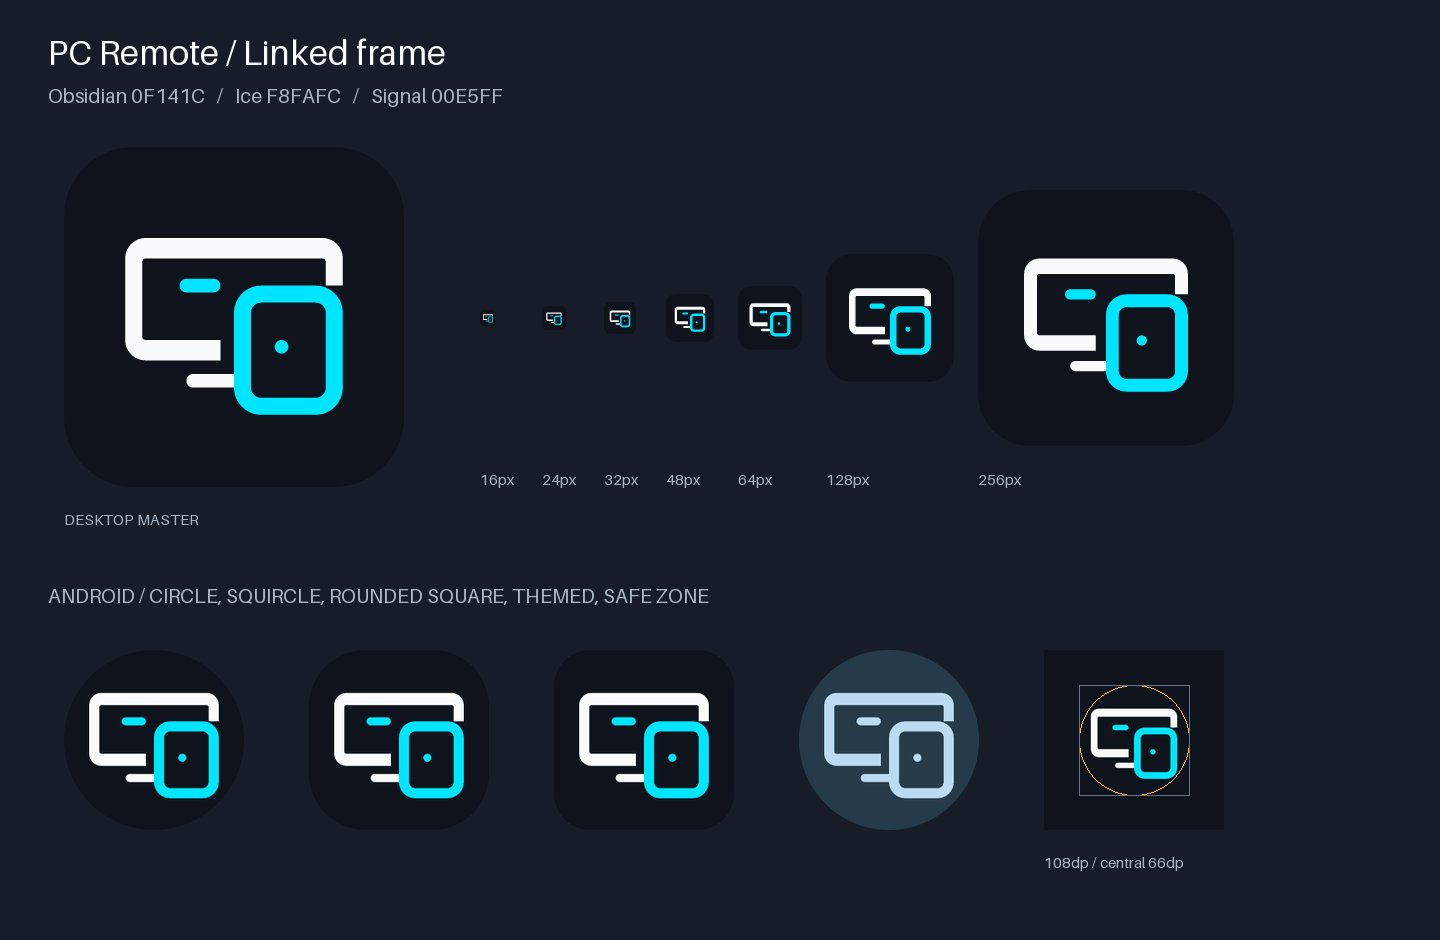
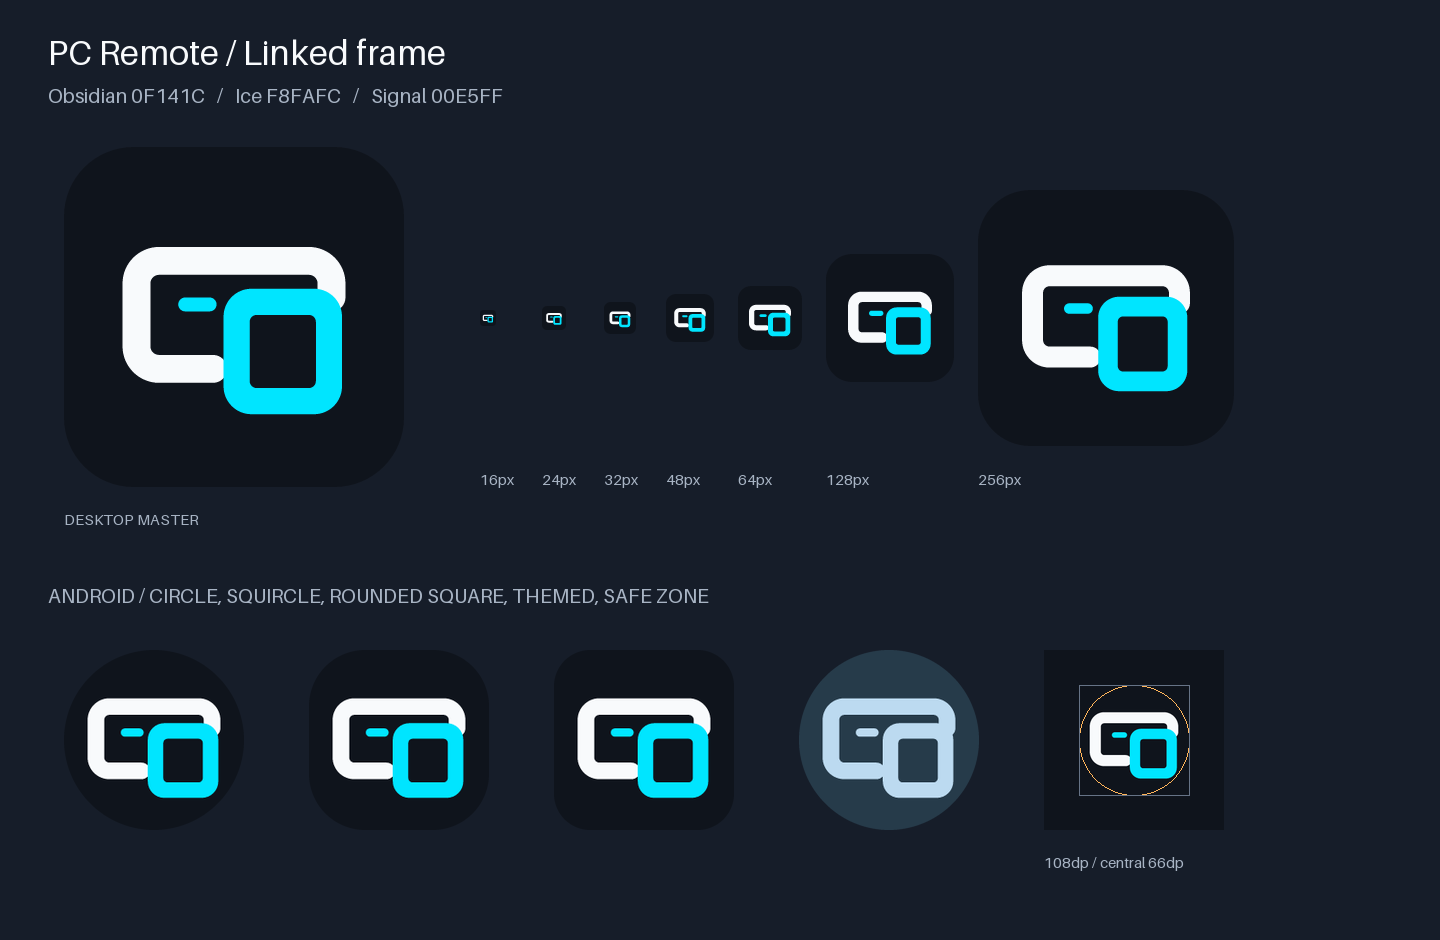
style(brand): rebrand da identidade visual para Precision Nexus

diff --git a/brand/README.md b/brand/README.md
@@ -1,8 +1,8 @@
-# PC Remote / Linked frame
+# PC Remote / Precision Nexus
 
-The open monitor frame and chamfered phone share a single geometric silhouette.
+A floating display horizon and fluid handheld remote share a minimalist, clean geometric silhouette.
 Ice (`#F8FAFC`) identifies the computer; cyan (`#00E5FF`) identifies the remote
-controller. Obsidian (`#0F141C`) provides the neutral surface. No gradients,
+controller and wireless pulse. Obsidian (`#0F141C`) provides the neutral surface. No gradients,
 shadows, fonts, or external artwork are used in the mark.
 
 `symbol.svg` is the canonical, unmasked 108 × 108 vector. Filled paths, rather
